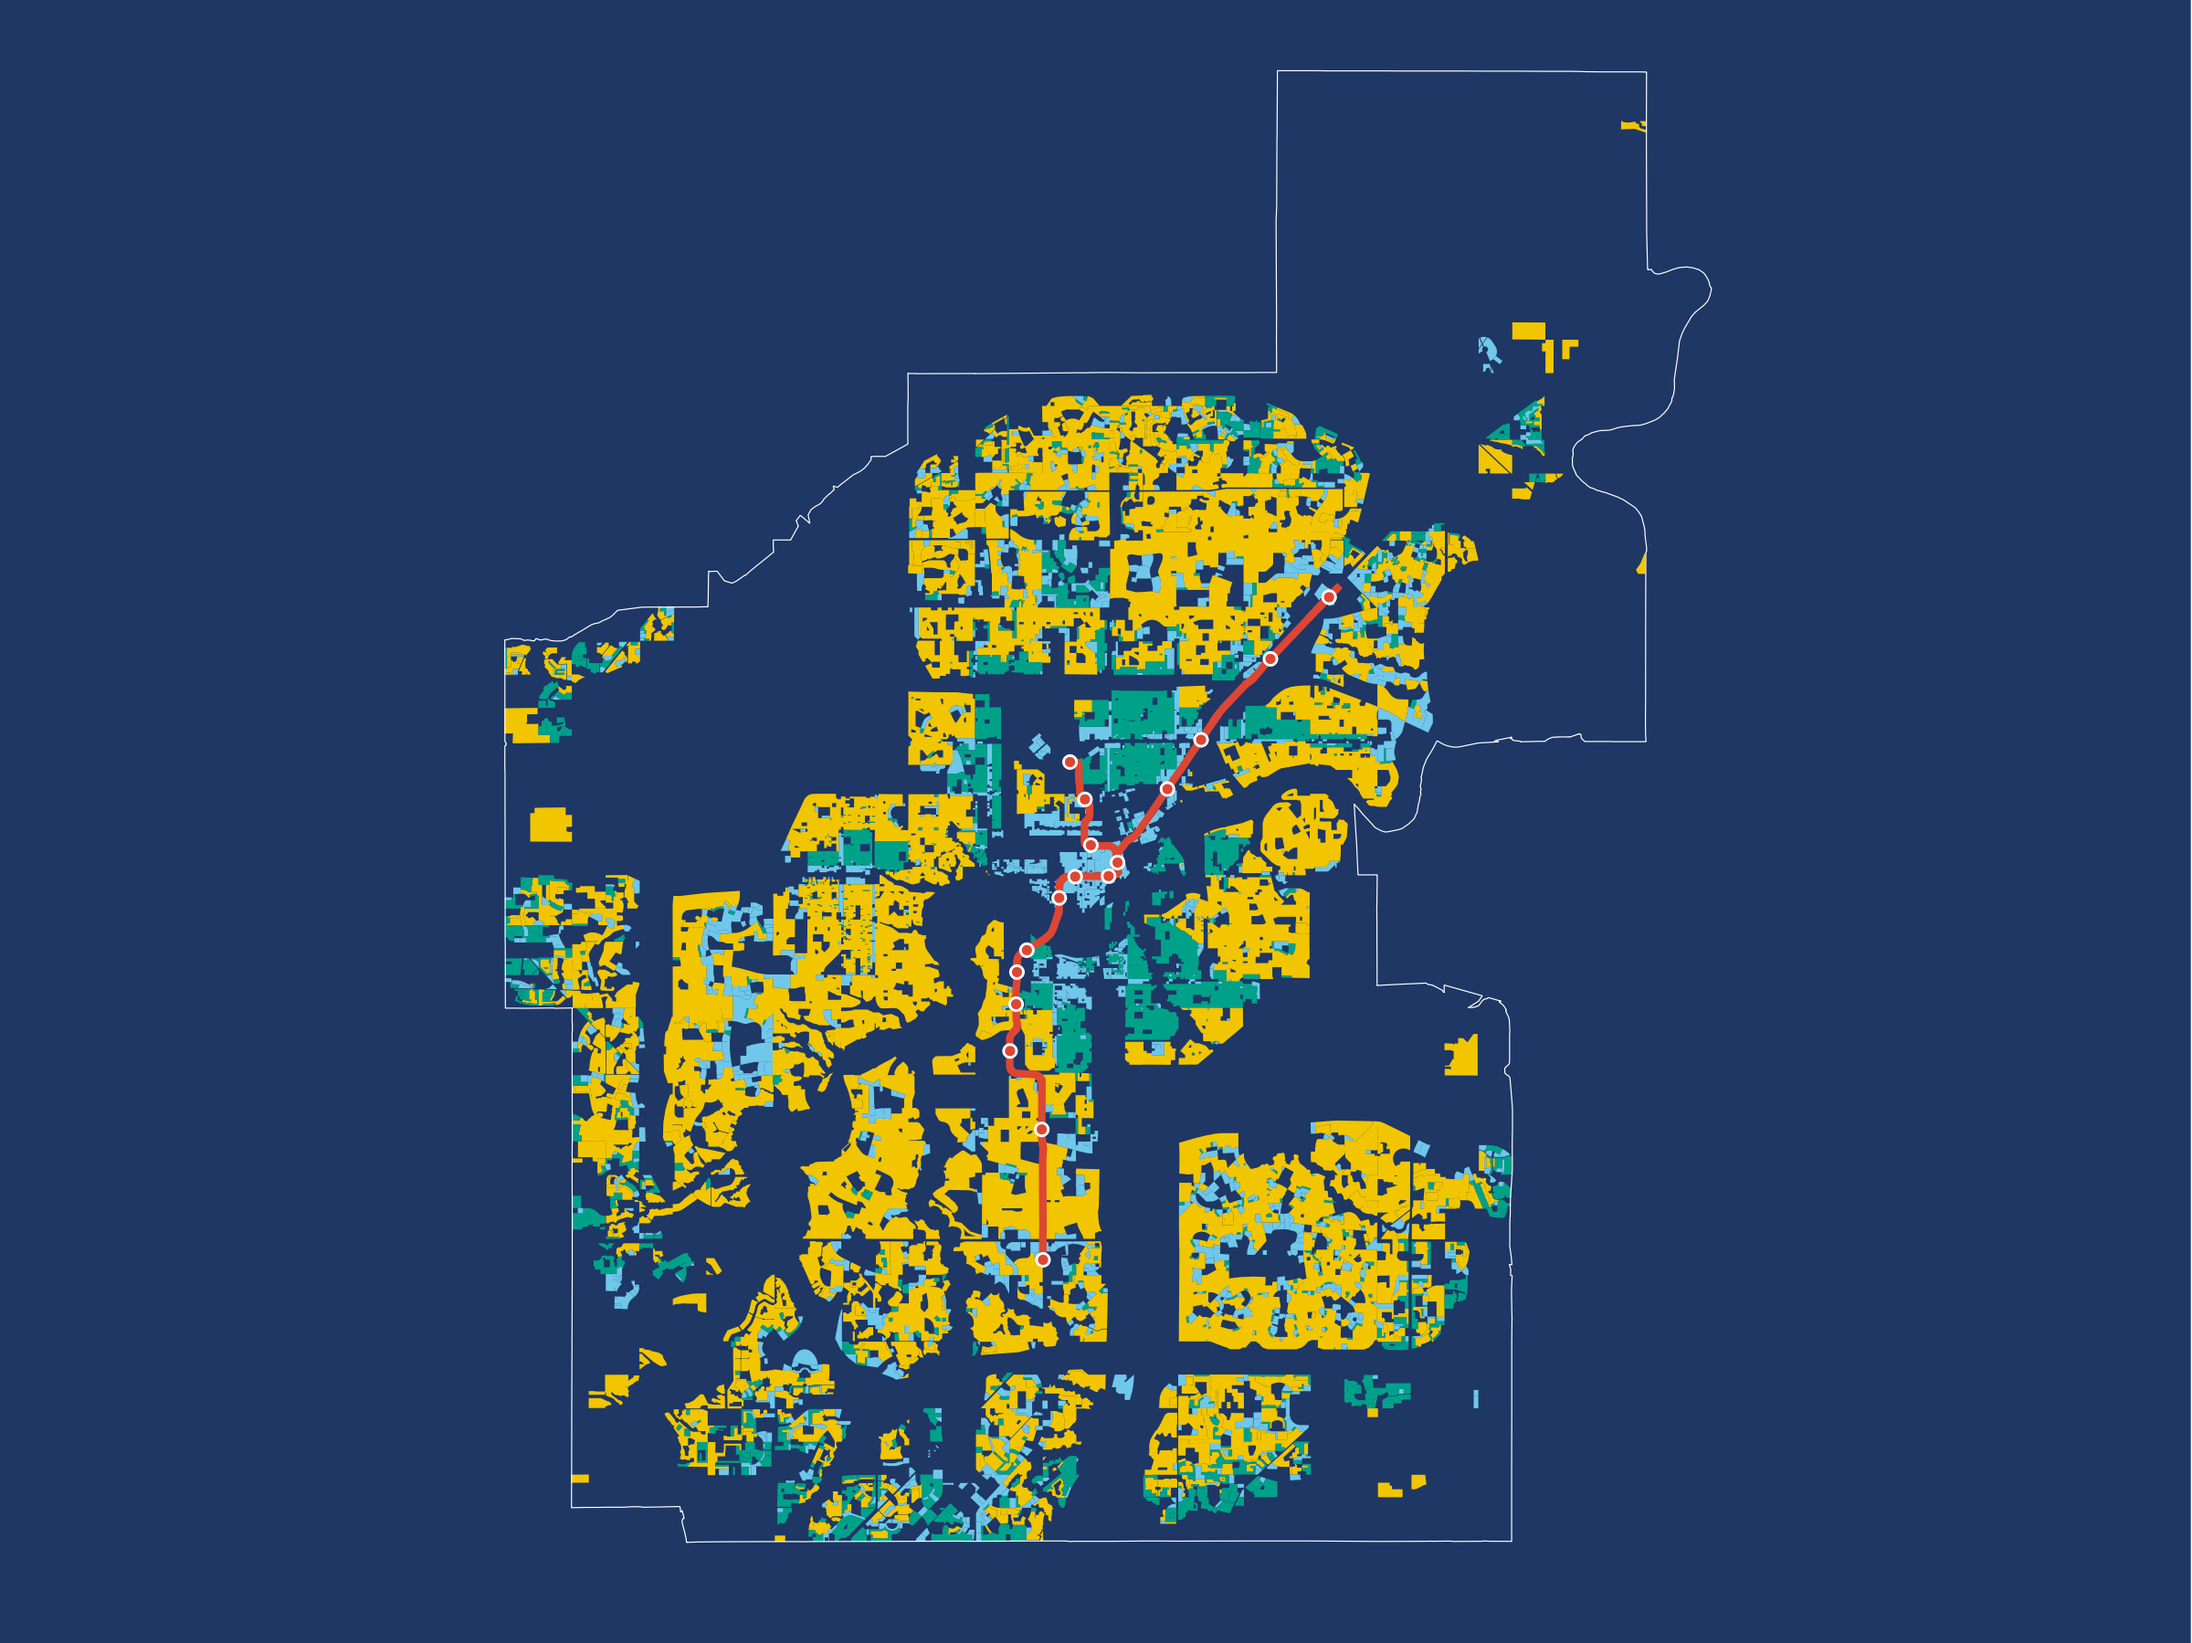
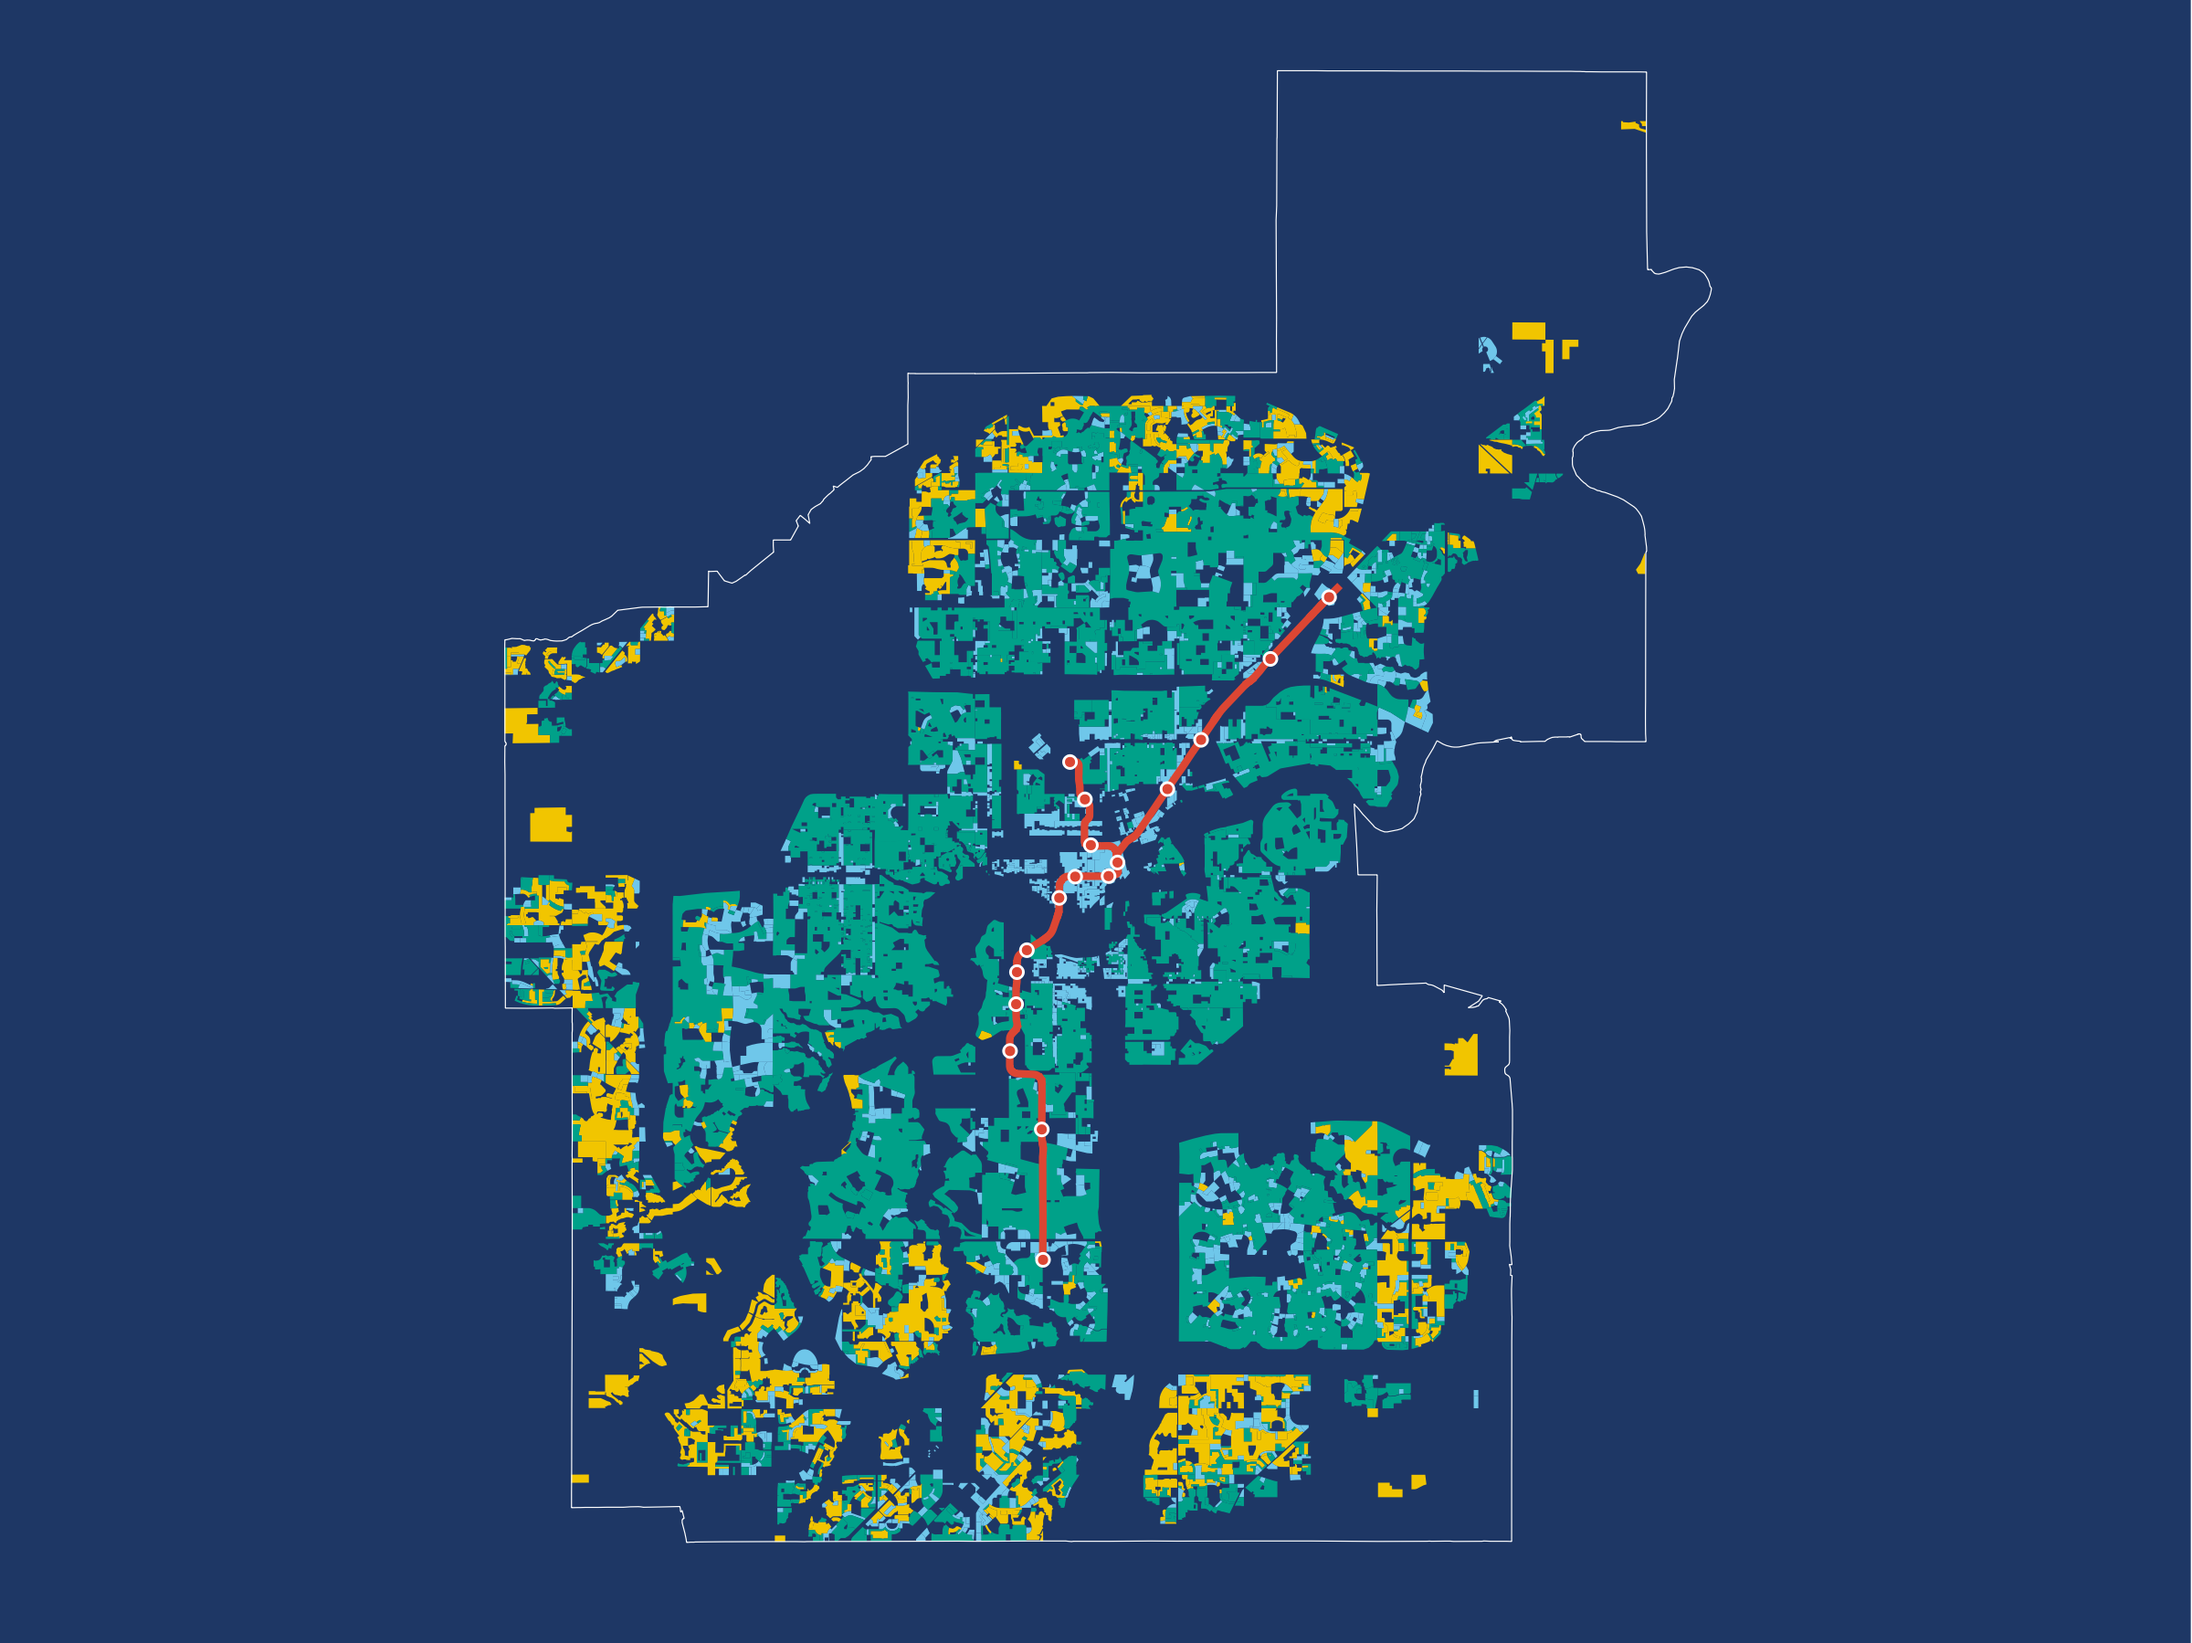
fixing incorrect classification in edm map

Changed region(s): [[0.25, 0.249, 0.6875, 0.8716], [0.6875, 0.2802, 0.7188, 0.3113]]

diff --git a/src/lib/LegendBar.svelte b/src/lib/LegendBar.svelte
@@ -14,8 +14,8 @@
 			"MU": 5.8
 		},
 		"edmonton": {
-			"SD": 68.0,
-			"OR": 16.7,
+			"SD": 20.7,
+			"OR": 64.0,
 			"MU": 15.3
 		},
 		"vancouver": {
@@ -55,7 +55,7 @@
 			<text x={label_pts[2]} y="15" fill="white">{toPercent(cities[city]["MU"])}</text>
 
 			<text x={boxes[0][0]} y="60" fill="white">Single Detached Only</text>
-			<text x={Math.min(divWidth - 132,boxes[1][0])} y="60" fill="white">Other Residential</text>
+			<text x={Math.min(divWidth - 132,Math.max(boxes[1][0],165))} y="60" fill="white">Other Residential</text>
 			<text x={divWidth - 1} y="80" text-anchor="end" fill="white">Mixed Use</text>
 
 			<line x1={divWidth - 5} y1="45" x2={divWidth - 5} y2="65" style="stroke:white;stroke-width:2" />

diff --git a/data/area.py b/data/area.py
@@ -20,14 +20,14 @@ utm = "epsg:32617"
 # utm = "epsg:32612"
 
 
-# file_in = "edmonton/data/zoning-edm.shp"
-# field = "zoning"
-# d = {
-# 	"SD": {"CCSF","RF1","RMH","RPL","RR","RSL","TSDR","TSLR"},
-# 	"RO": {"CCLD","GHLD","GLD","GLG","RF2","RF3","RF4","RLD","RMD"},
-# 	"MU": {"AED","BLMR","BRH","CB3","CCA","CCHD","CCMD","CMU","GVC","HA","HDR","HVRH","JAMSC","MMS","MMUT","RA7","RA7a","RA7g","RA8","RA8g","RA8h","RA9","RF5","RF5g","RF5T","R6","RMU","RTCMR","RVRH","SLD","SRA","SRH","TMU","UCRH","UVCa","UW"}
-# }
-# utm = "epsg:32612"
+file_in = "edmonton/data/zoning-edm.shp"
+field = "zoning"
+d = {
+	"SD": {"CCSF","RMH","RPL","RR","RSL","TSDR","TSLR"},
+	"RO": {"CCLD","GHLD","GLD","GLG","RF1","RF2","RF3","RF4","RLD","RMD"},
+	"MU": {"AED","BLMR","BRH","CB3","CCA","CCHD","CCMD","CMU","GVC","HA","HDR","HVRH","JAMSC","MMS","MMUT","RA7","RA7a","RA7g","RA8","RA8g","RA8h","RA9","RF5","RF5g","RF5T","R6","RMU","RTCMR","RVRH","SLD","SRA","SRH","TMU","UCRH","UVCa","UW"}
+}
+utm = "epsg:32612"
 
 
 # file_in = "vancouver/data/zones-categories-clipped-all.shp"
